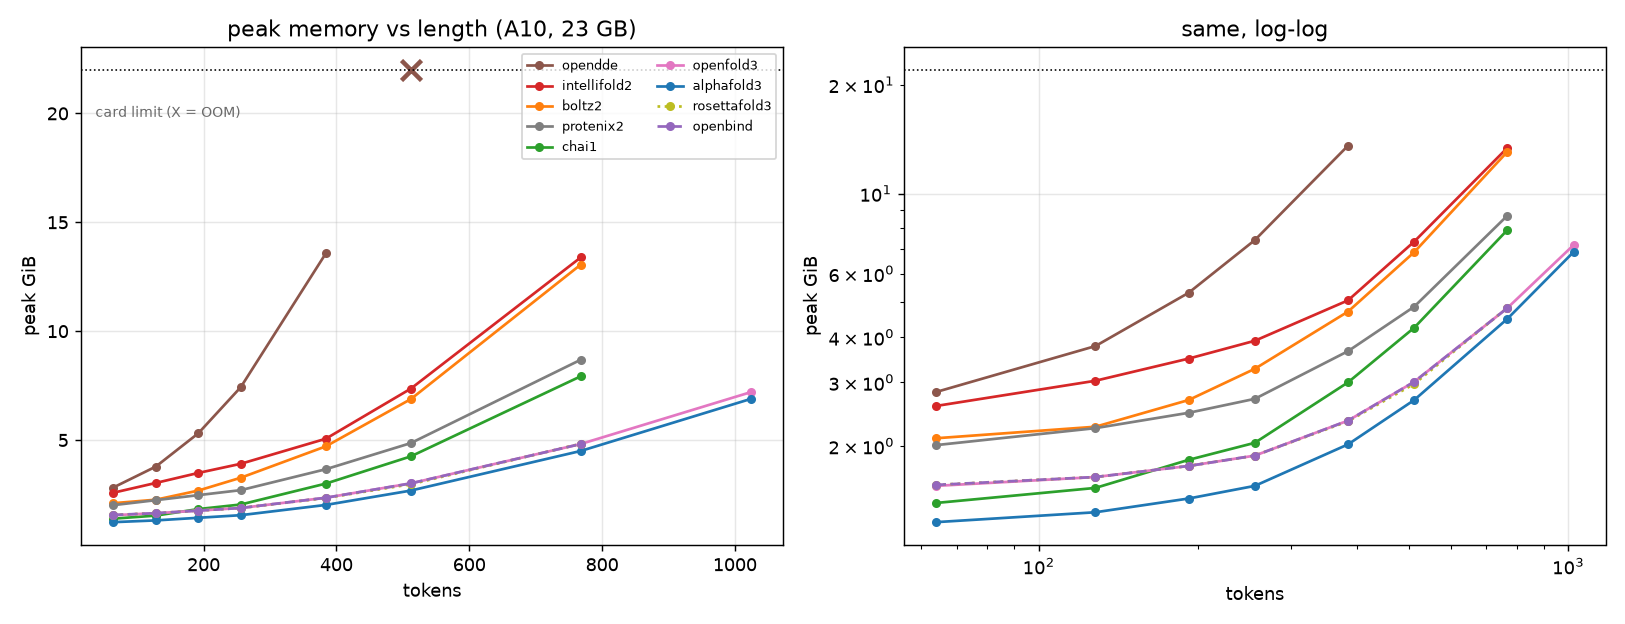
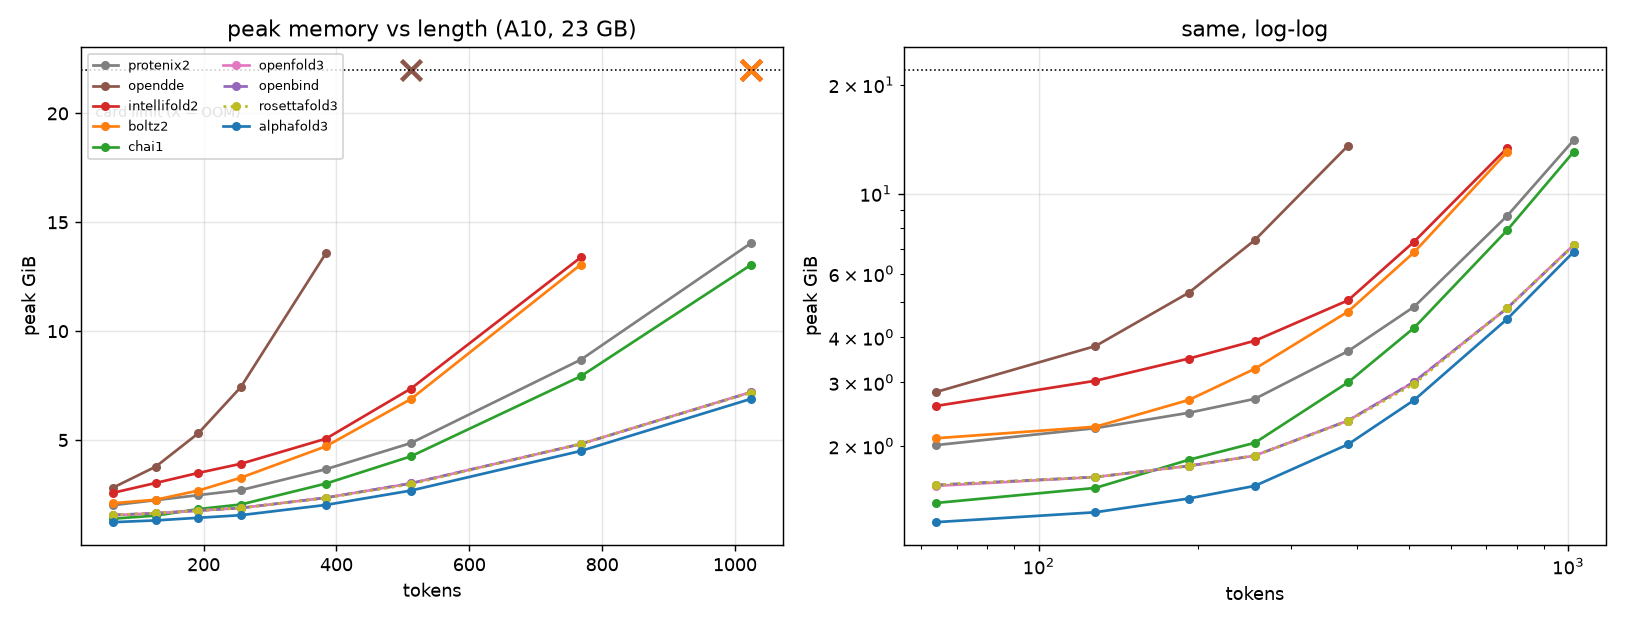
benchmarks: complete the 1024 memory row
protenix2 14.04 GiB and chai1 13.04 both fit where boltz2 does not, and the
reason is the exponent rather than luck: boltz2 grows 1.90x from 512 to 768
where protenix2 grows 1.79x then 1.62x, which extrapolates boltz2 to ~20 GiB at
1024 against ~22 usable.

diff --git a/docs/benchmarks/README.md b/docs/benchmarks/README.md
@@ -53,18 +53,24 @@ Peak GiB, A10:
     opendde           2.82    3.78    5.31    7.43   13.57     OOM     OOM     OOM
     intellifold2      2.58    3.03    3.49    3.91    5.06    7.36   13.39     OOM
     boltz2            2.10    2.26    2.68    3.27    4.71    6.88   13.06     OOM
-    protenix2         2.01    2.24    2.47    2.70    3.66    4.86    8.69       -
-    chai1             1.39    1.53    1.83    2.04    3.00    4.25    7.93       -
+    protenix2         2.01    2.24    2.47    2.70    3.66    4.86    8.69   14.04
+    chai1             1.39    1.53    1.83    2.04    3.00    4.25    7.93   13.04
     openfold3         1.55    1.64    1.76    1.88    2.35    3.01    4.82    7.20
-    rosettafold3      1.56    1.64    1.76    1.88    2.34    2.97    4.83       -
-    openbind          1.56    1.64    1.76    1.88    2.35    3.01    4.82       -
+    rosettafold3      1.56    1.64    1.76    1.88    2.34    2.97    4.83    7.18
+    openbind          1.56    1.64    1.76    1.88    2.35    3.01    4.82    7.19
     alphafold3        1.23    1.31    1.43    1.55    2.02    2.68    4.50    6.89
 
 **Runtime does not predict footprint**, which is the reason to measure both.
 boltz2 is 2.3x FASTER than protenix2 at 512 tokens (41.2 s against 60.5 s) and
 uses 42% MORE memory (6.88 GiB against 4.86) -- so boltz2 OOMs at 1024 while
-protenix2, the slower model, keeps running. A runtime plot cannot tell you which
-model will fit on your card.
+protenix2, the slower model, keeps running at 14.04 GiB. A runtime plot cannot
+tell you which model will fit on your card.
+
+And it is not a near miss that boltz2 happened to lose: its footprint SCALES
+faster. boltz2 goes 6.88 -> 13.06 GiB from 512 to 768 (1.90x for a 1.5x length),
+where protenix2 goes 4.86 -> 8.69 -> 14.04 (1.79x then 1.62x). Extrapolating
+boltz2 to 1024 gives roughly 20 GiB against the ~22 usable here, so the OOM is
+the exponent, not luck.
 
 openfold3, openbind and rosettafold3 agree to ~0.02 GiB at every length, which
 is what three pair_channel=128 graphs with the same block counts should do; they
